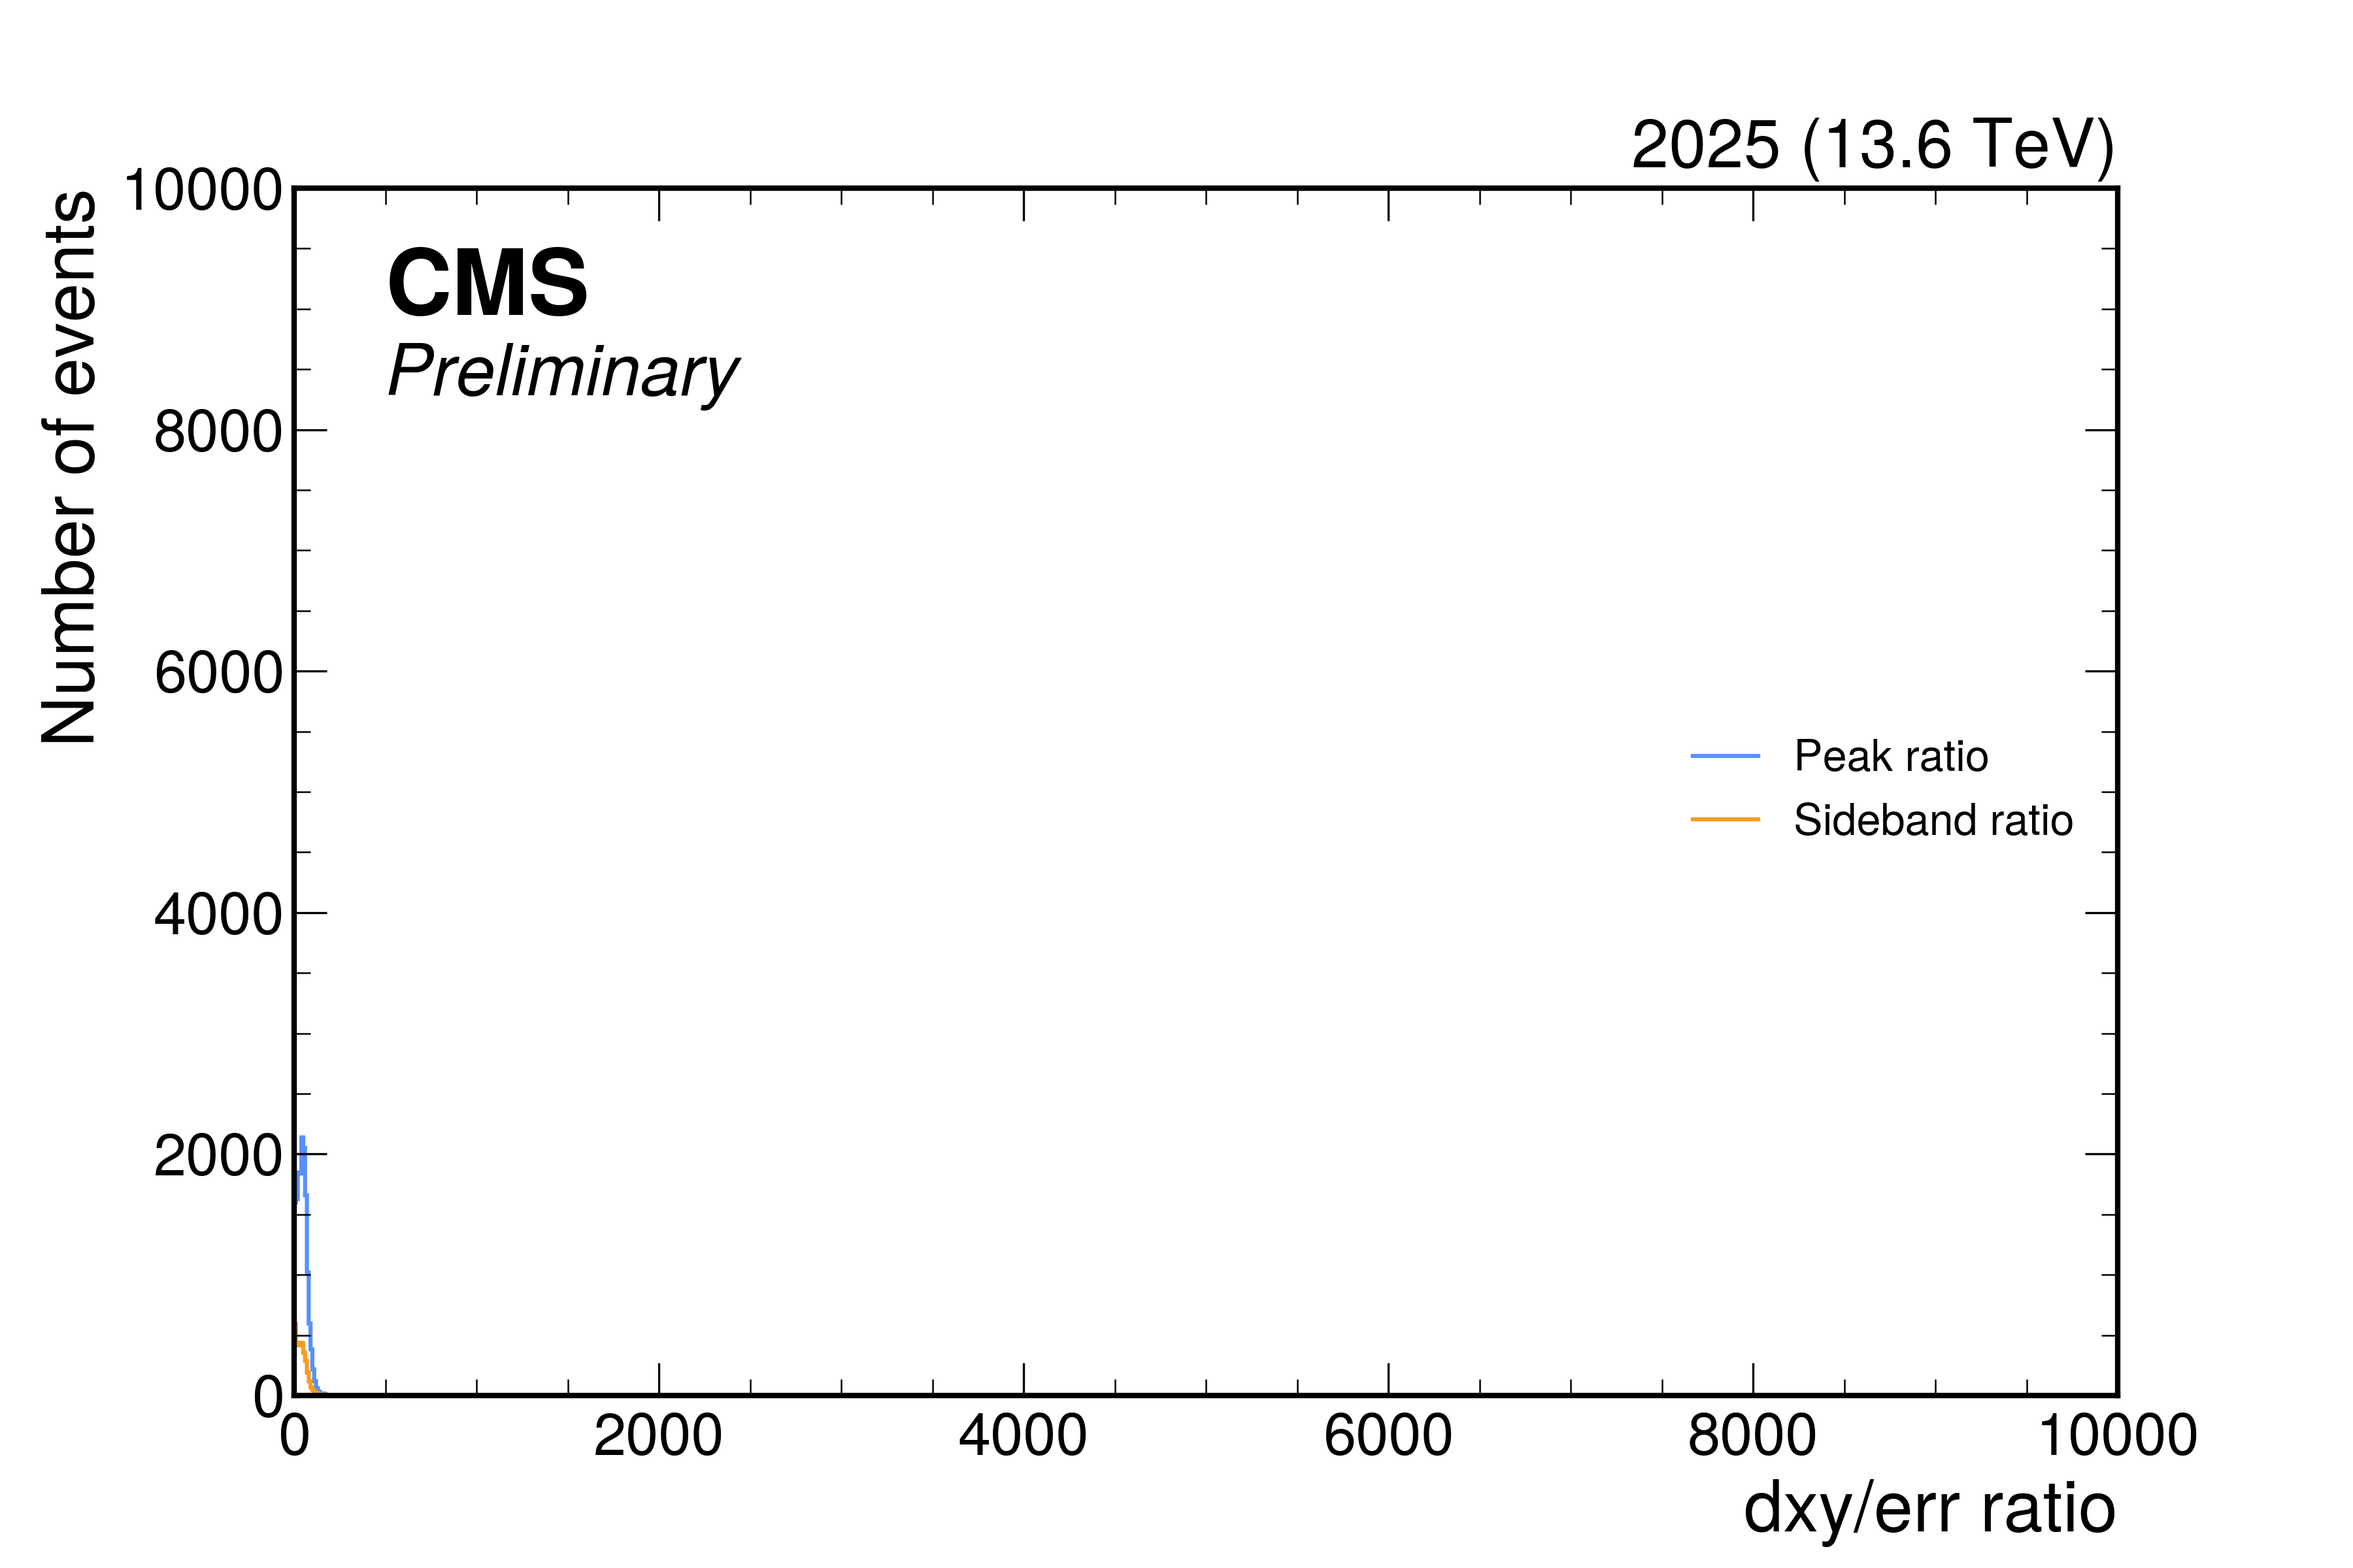
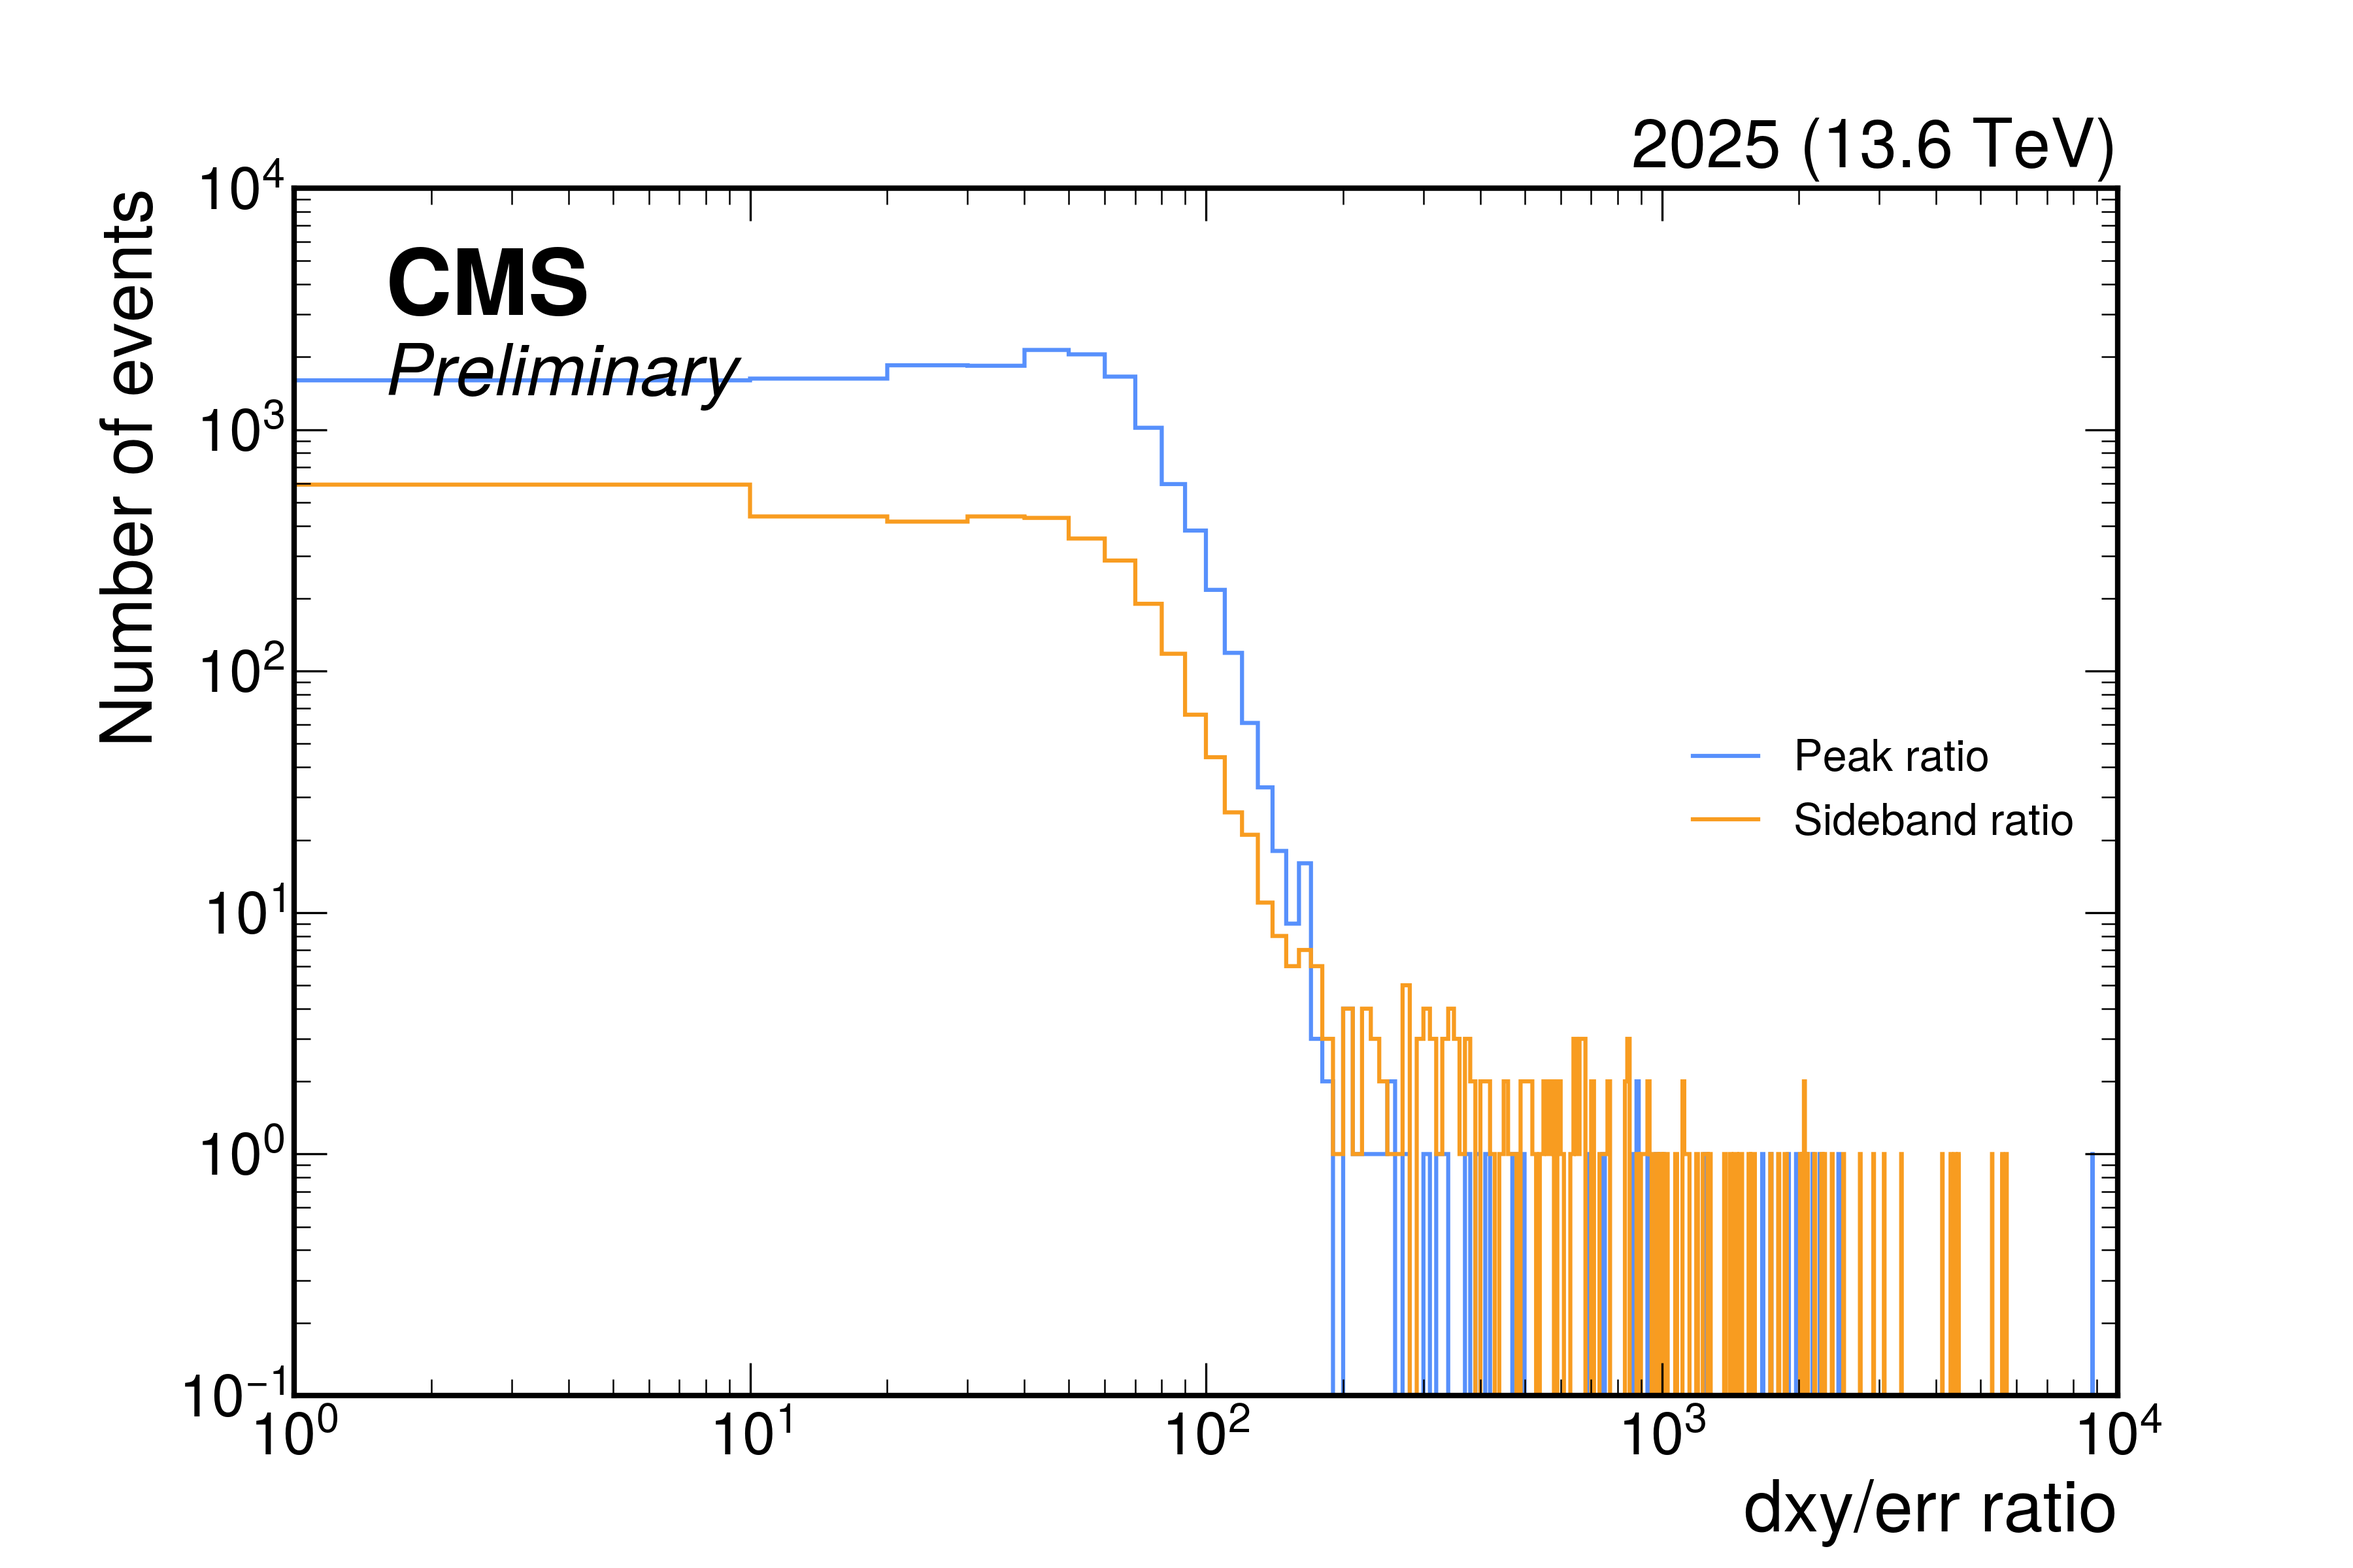
rescale plot to loglog

diff --git a/draw.py b/draw.py
@@ -191,7 +191,7 @@ sidebands_bin_centers = h_absdxy_sidebands.axes[0].centers
 
 hep.histplot(h_ratio_pk, ax=ax, label="Peak ratio", yerr=False)
 
-yMin = 0
+yMin = 0.1
 yMax = 10**np.ceil(np.log10(h_ratio_pk.values().max()))
 ratioValues = sidebands_bin_values/sidebands_err_values
 
@@ -200,11 +200,11 @@ hep.histplot(h_ratio_sb, ax=ax, label="Sideband ratio", yerr=False)
 print(sidebands_bin_values)
 print(sidebands_err_values)
 
-ax.set_xlim(0, 1e4)
+ax.set_xlim(1, 1e4)
 ax.set_ylim(yMin, yMax)
 ax.set_xlabel("dxy/err ratio")
 ax.set_ylabel("Number of events")
 ax.legend(loc='center right', fontsize = 16, frameon = False, ncol=1)
-# ax.set_xscale("log")
-ax.set_yscale("linear")
+ax.set_xscale("log")
+ax.set_yscale("log")
 fig.savefig("img/hist_dxyratios_%s.png"%(MUON), dpi=300)
